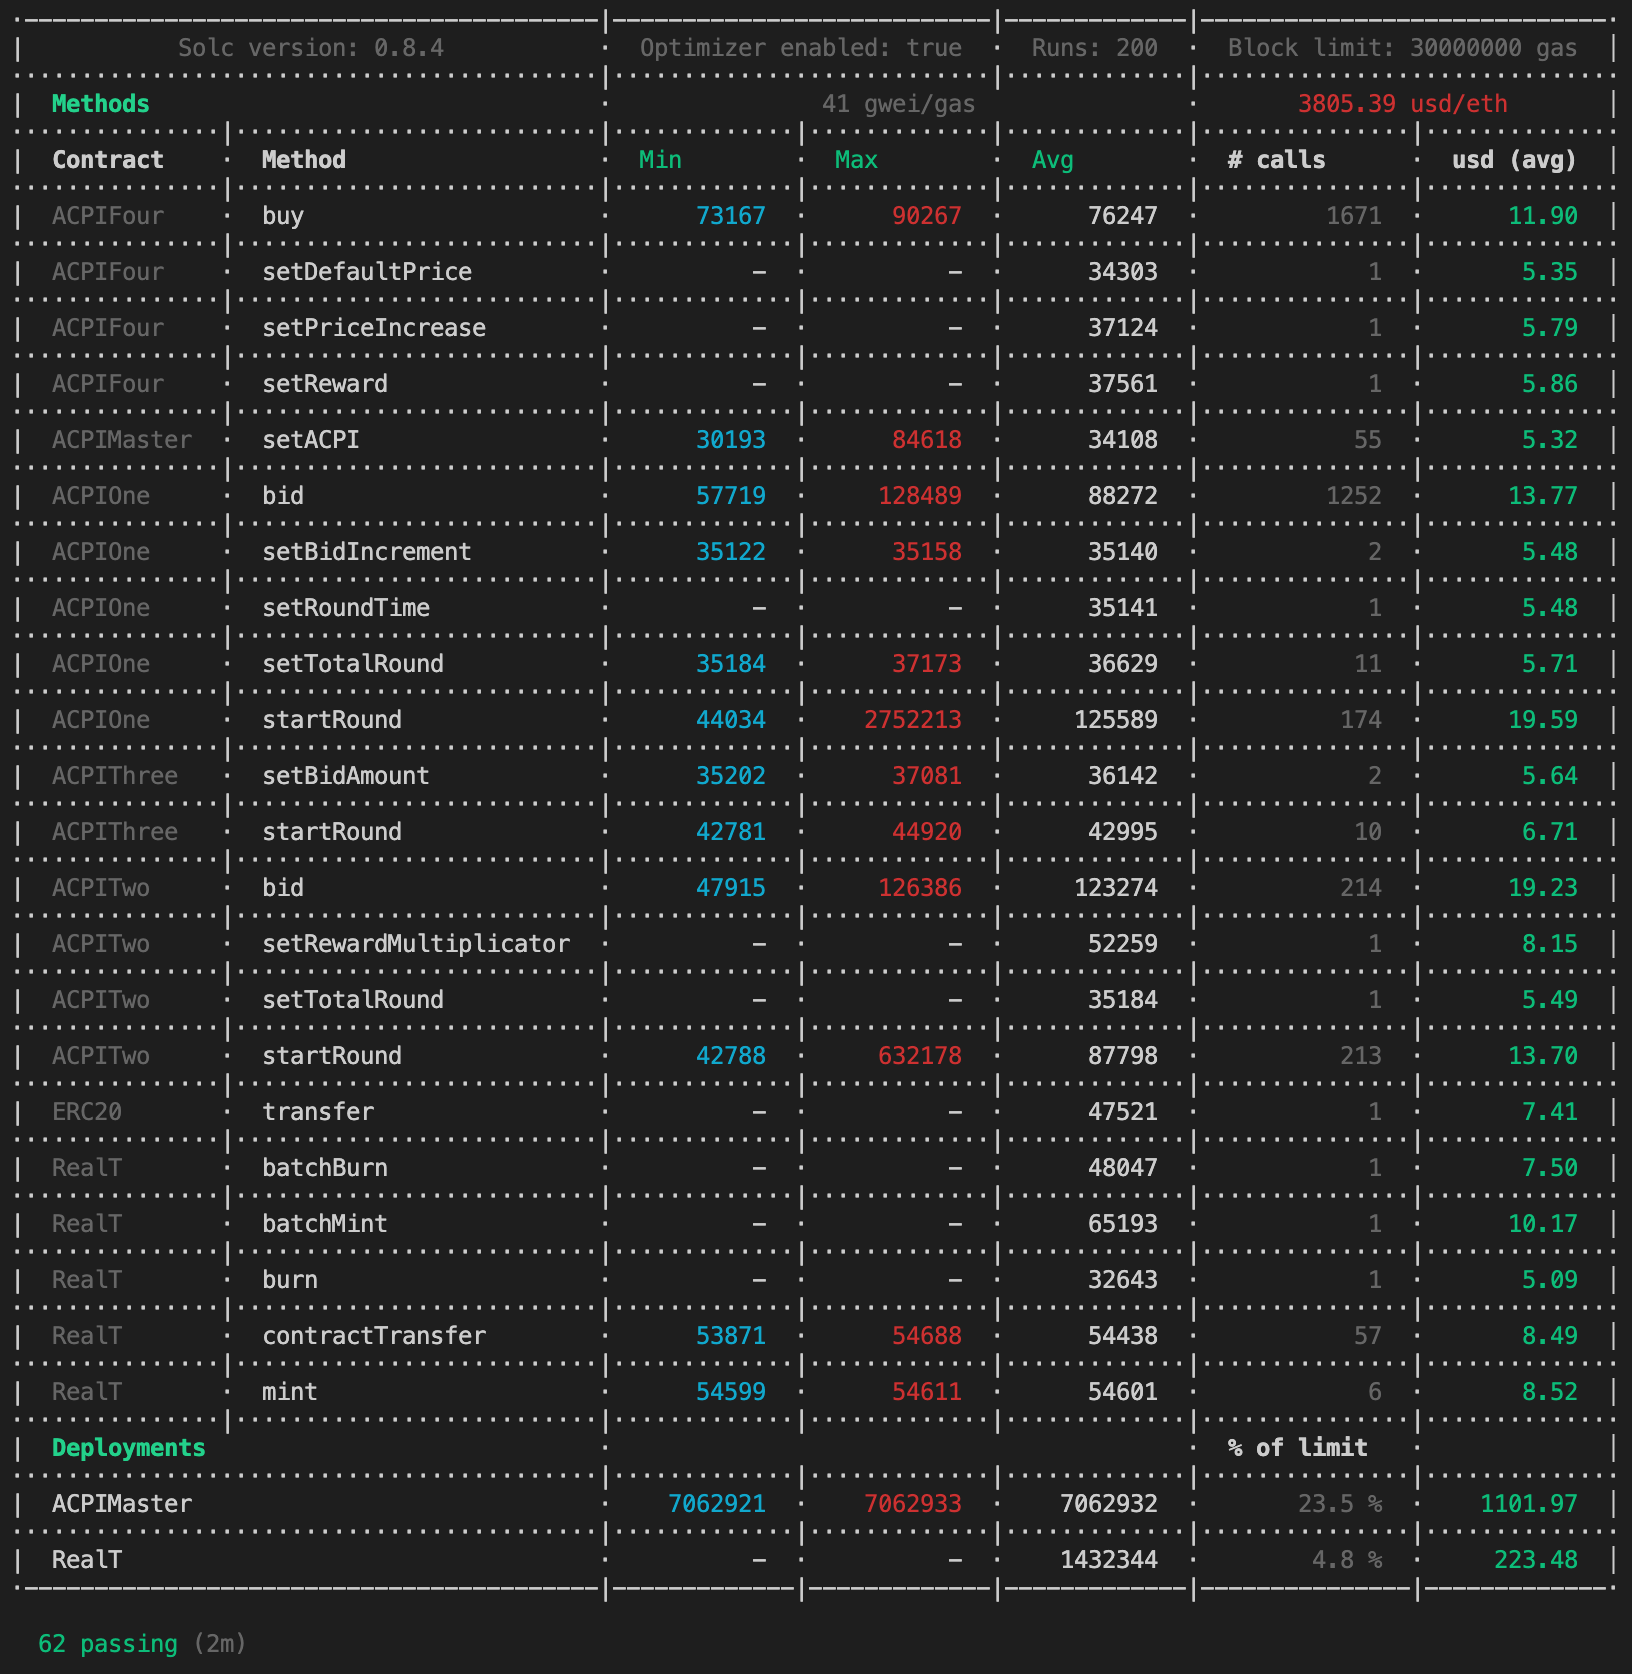
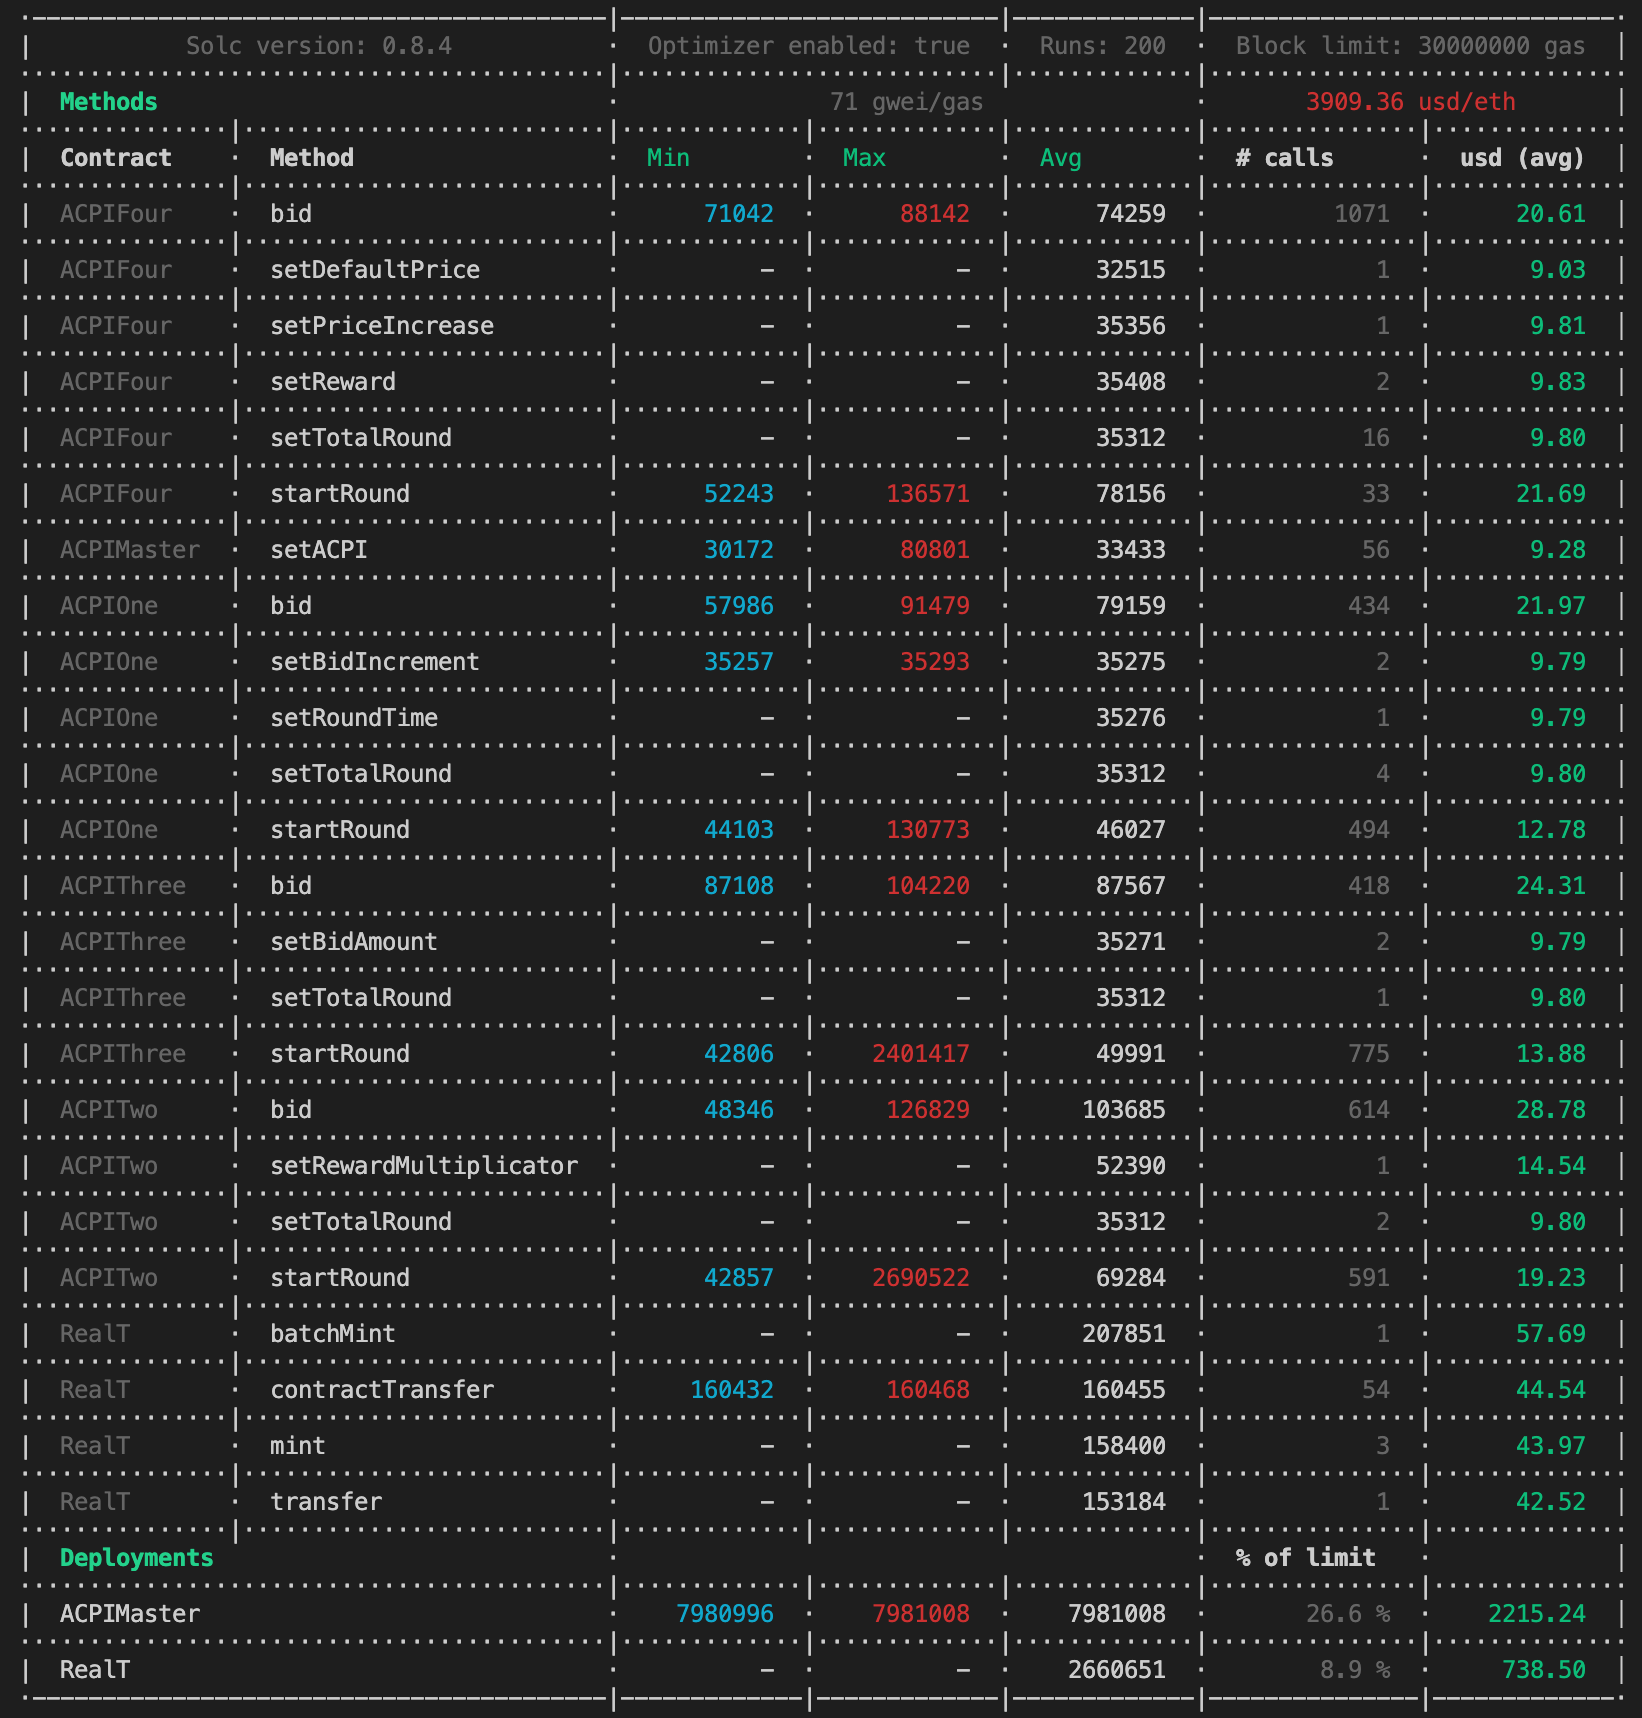
Added totalWins totalReturns || Added check on claimTokens

Changed region(s): [[0.0, 0.0, 1.0, 0.994], [0.5312, 0.2485, 0.625, 0.6834], [0.8125, 0.2174, 0.875, 0.6834]]

diff --git a/hardhat.config.ts b/hardhat.config.ts
@@ -68,27 +68,6 @@ const config: HardhatUserConfig = {
           ? [process.env.TOKEN_ADMIN_PK, process.env.ACPI_MODERATOR]
           : [],
     },
-    xdaiTest: {
-      url: process.env.XDAITEST_URL || "",
-      accounts:
-        process.env.ACPI_MODERATOR !== undefined && process.env.TOKEN_ADMIN_PK
-          ? [process.env.TOKEN_ADMIN_PK, process.env.ACPI_MODERATOR]
-          : [],
-    },
-    ropsten: {
-      url: process.env.ROPSTEN_URL || "",
-      accounts:
-        process.env.ACPI_MODERATOR !== undefined && process.env.TOKEN_ADMIN_PK
-          ? [process.env.TOKEN_ADMIN_PK, process.env.ACPI_MODERATOR]
-          : [],
-    },
-    kovan: {
-      url: process.env.KOVAN_URL || "",
-      accounts:
-        process.env.ACPI_MODERATOR !== undefined && process.env.TOKEN_ADMIN_PK
-          ? [process.env.TOKEN_ADMIN_PK, process.env.ACPI_MODERATOR]
-          : [],
-    },
     rinkeby: {
       url: process.env.RINKEBY_URL || "",
       accounts:

diff --git a/scripts/deploy.ts b/scripts/deploy.ts
@@ -34,7 +34,7 @@ async function main() {
 
   const RealtFactory = await ethers.getContractFactory("RealT");
   const realtToken = await RealtFactory.deploy(name, symbol, {
-    gasLimit: 8500000,
+    gasLimit: 3500000,
   });
 
   await realtToken.deployed();
@@ -42,14 +42,17 @@ async function main() {
   const ACPIMasterFactory = await ethers.getContractFactory("ACPIMaster");
   const acpiMaster = await ACPIMasterFactory.deploy(
     realtToken.address,
-    ACPI_MODERATOR.address
+    ACPI_MODERATOR.address,
+    {
+      gasLimit: 8500000,
+    }
   );
 
   await acpiMaster.deployed();
 
   await realtToken.contractTransfer(
     acpiMaster.address,
-    ethers.utils.parseUnits("1000", "ether")
+    ethers.utils.parseUnits("12000", "ether")
   );
   console.log("Contract has been deployed!");
 

diff --git a/test/index.test.ts b/test/index.test.ts
@@ -62,7 +62,13 @@ describe("Realt Factory", function () {
   });
 
   it("Should set ACPI to 6", async function () {
-    await expect(acpiMaster.setACPI(6)).revertedWith("Allowed value is 0-5");
+    await acpiMaster.setACPI(6);
+
+    expect(await acpiMaster.getACPI()).to.equal(6);
+  });
+
+  it("Should set ACPI to 6", async function () {
+    await expect(acpiMaster.setACPI(7)).revertedWith("Allowed value is 0-6");
   });
 
   it("Test permission", async function () {
